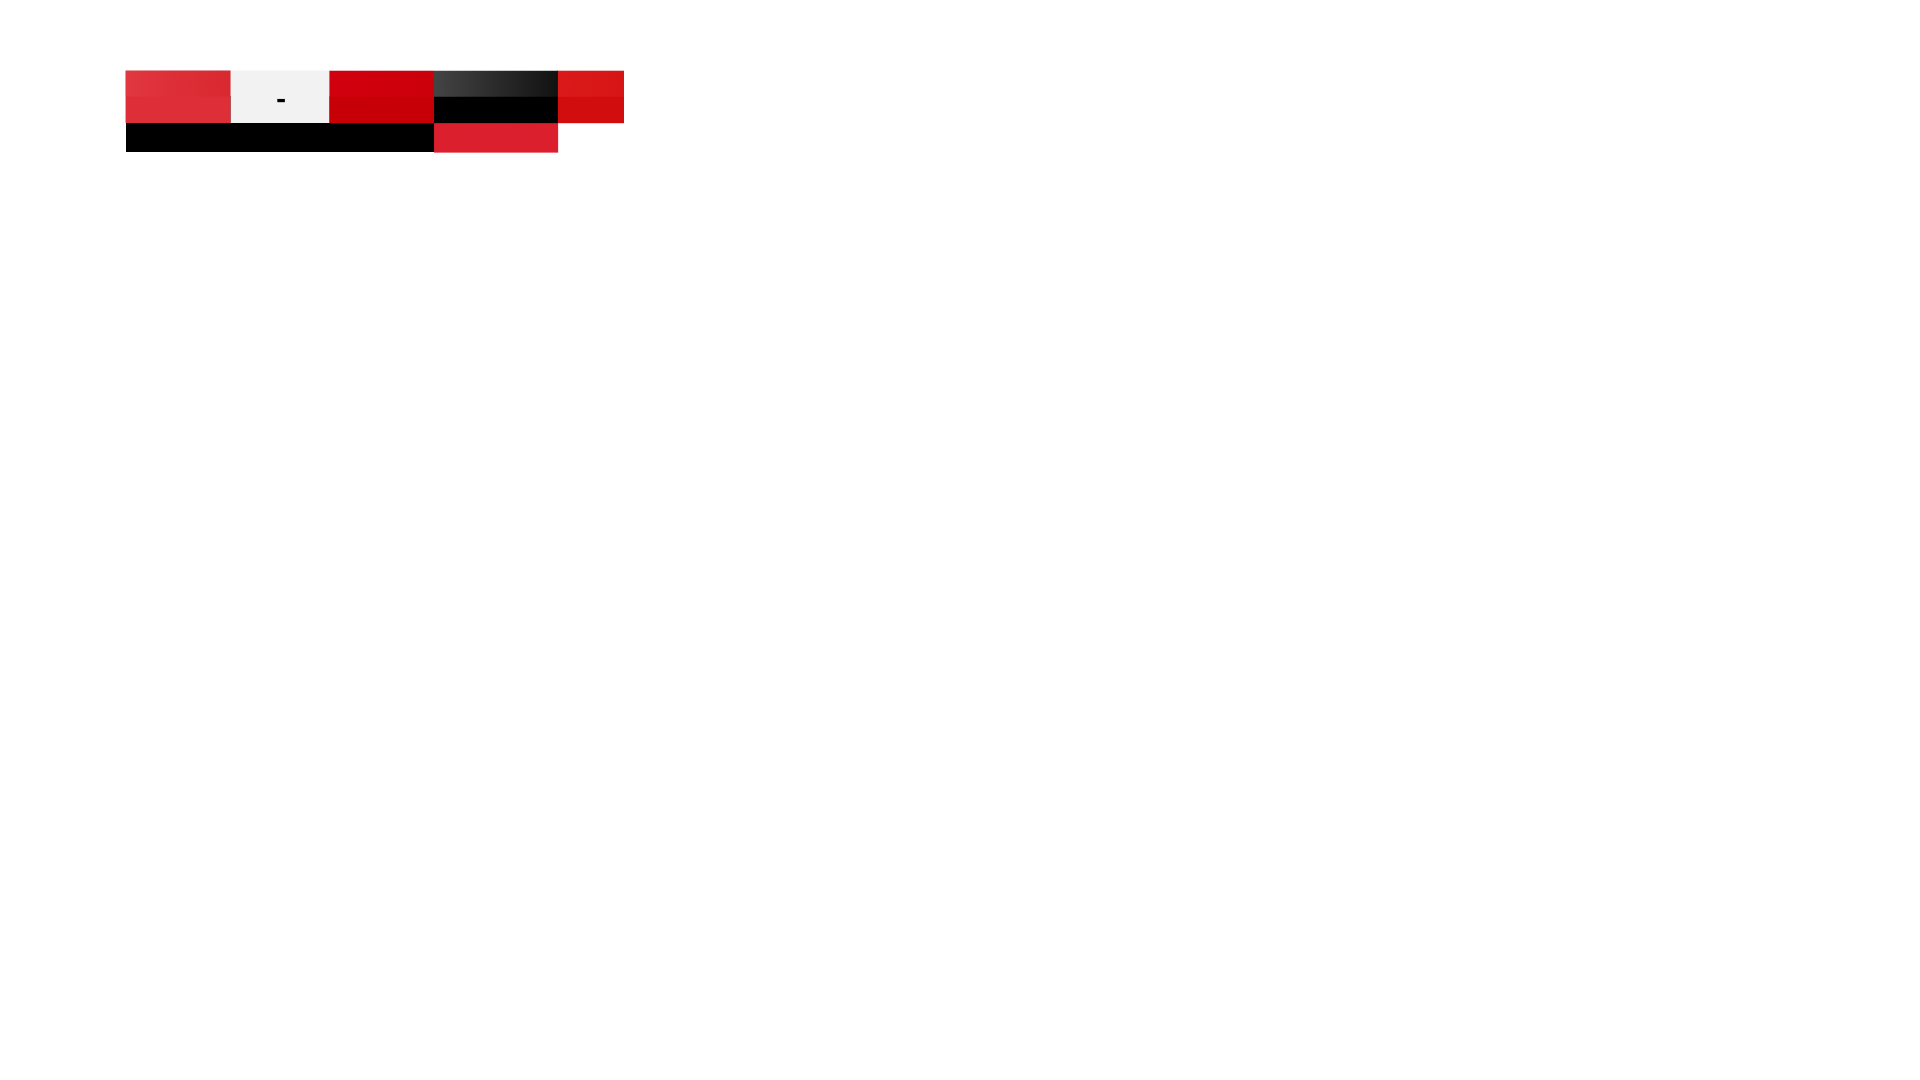
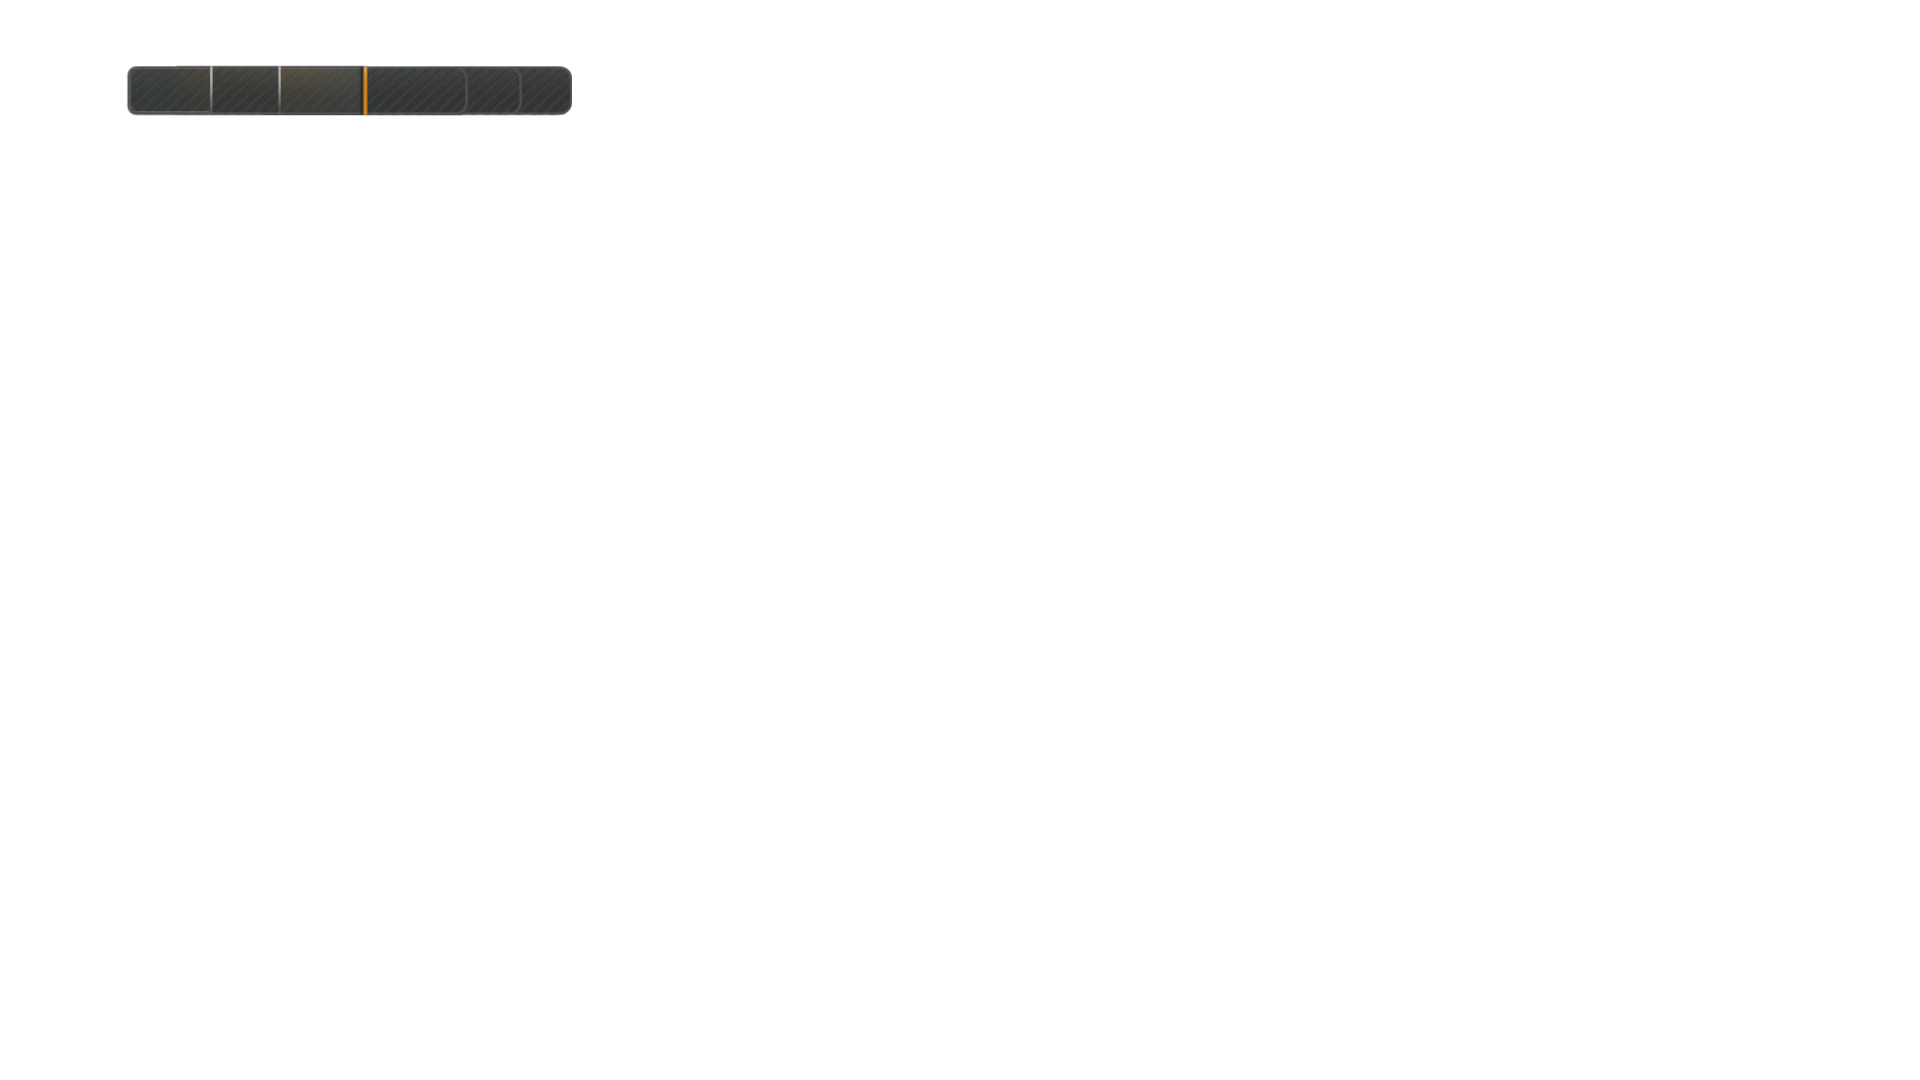
Ziggo layout

Changed region(s): [[0.0625, 0.0611, 0.3438, 0.1528]]

diff --git a/ScoreBoardXaml/MainControl.xaml b/ScoreBoardXaml/MainControl.xaml
@@ -1,25 +1,14 @@
 <UserControl  x:Class="ScoreboardV2Xaml.MainControl" xmlns="http://schemas.microsoft.com/winfx/2006/xaml/presentation" xmlns:x="http://schemas.microsoft.com/winfx/2006/xaml" xmlns:mtl="clr-namespace:vMixTitleLibrary;assembly=vMixTitleLibrary" xmlns:d="http://schemas.microsoft.com/expression/blend/2008" xmlns:mc="http://schemas.openxmlformats.org/markup-compatibility/2006" mc:Ignorable="d" Width="1920" Height="1080" Panel.ZIndex="500" InputMethod.IsInputMethodEnabled="True">
     <Grid InputMethod.IsInputMethodEnabled="True">
         <Image x:Name="BGIMG" Source="Images/Scoreboard.png" Stretch="Fill"/>
-        <mtl:TextBlockDesign FontStyle="Normal" FontWeight="Black" FontFamily="Lato" Fill="#FFFFFFFF" FontSize="30" TextAlignment="Center" Text="35:00" x:Name="TIME" Width="106.85" Height="36" Margin="443.286323806475,79.875,0,0" HorizontalAlignment="Left" VerticalAlignment="Top" Visibility="Visible" InputMethod.IsInputMethodEnabled="True" />
-        <mtl:TextBlockDesign FontStyle="Normal" FontWeight="Black" FontFamily="Lato" Fill="#FFFFFFFF" FontSize="20" TextAlignment="Center" Text="1e helft" x:Name="GAMEPART_TITLE" Width="106.28962264151" Height="24" Margin="444.343384940669,124.509429931641,0,0" HorizontalAlignment="Left" VerticalAlignment="Top" Visibility="Visible" InputMethod.IsInputMethodEnabled="True" />
-        <mtl:TextBlockDesign FontStyle="Normal" FontWeight="Black" FontFamily="Lato" Fill="#FF000000" FontSize="30" TextAlignment="Right" Text="0" x:Name="HOMESCORE" Width="44.75" Height="36" Margin="230.449996948242,80.4749984741211,0,0" HorizontalAlignment="Left" VerticalAlignment="Top" Visibility="Visible" InputMethod.IsInputMethodEnabled="True" />
-        <mtl:TextBlockDesign FontStyle="Normal" FontWeight="Black" FontFamily="Lato" Fill="#FF000000" FontSize="30" TextAlignment="Left" Text="0" x:Name="GUESTSCORE" Width="44.75" Height="36" Margin="288.676422119141,80.4561309814453,0,0" HorizontalAlignment="Left" VerticalAlignment="Top" Visibility="Visible" InputMethod.IsInputMethodEnabled="True" />
-        <mtl:TextBlockDesign FontStyle="Normal" FontWeight="Black" FontFamily="Lato" Fill="#FFFFFFFF" FontSize="30" TextAlignment="Center" Text="TOP" x:Name="HOMETEAM" Width="87.95" Height="36" Margin="135.550003051758,79.875,0,0" HorizontalAlignment="Left" VerticalAlignment="Top" Visibility="Visible" InputMethod.IsInputMethodEnabled="True" />
-        <mtl:TextBlockDesign FontStyle="Normal" FontWeight="Black" FontFamily="Lato" Fill="White" FontSize="30" TextAlignment="Center" Text="AWD" x:Name="GUESTTEAM" Width="87.95" Height="36" Margin="339.399993896484,80,0,0" HorizontalAlignment="Left" VerticalAlignment="Top" Visibility="Visible" InputMethod.IsInputMethodEnabled="True" />
-        <mtl:TextBlockDesign FontStyle="Normal" FontWeight="Black" FontFamily="Lato" Fill="#FFFFFFFF" FontSize="14" TextAlignment="Center" Text="WISSELS" x:Name="SUBSTITUTES" Width="97.623" Height="16.8" Margin="231.303,129.676,0,0" HorizontalAlignment="Left" VerticalAlignment="Top" Visibility="Visible" InputMethod.IsInputMethodEnabled="True" />
-        <Image x:Name="HOME_SUBSTITUTE_IMAGE" Source="Images/s0.png" HorizontalAlignment="Left" Margin="130.126,132.301,0,0" Stretch="Fill" VerticalAlignment="Top" Width="110" Height="12" RenderTransformOrigin="0.5,0.5">
-            <Image.RenderTransform>
-                <TransformGroup>
-                    <ScaleTransform ScaleY="1" ScaleX="-1"/>
-                    <SkewTransform AngleY="0" AngleX="0"/>
-                    <RotateTransform Angle="0"/>
-                    <TranslateTransform/>
-                </TransformGroup>
-            </Image.RenderTransform>
-        </Image>
-        <Image x:Name="GUEST_SUBSTITUTE_IMAGE" Source="Images/s0.png" HorizontalAlignment="Left" Margin="319.058,132.301,0,0" Stretch="Fill" VerticalAlignment="Top" Width="110" Height="12"/>
-        <mtl:TextBlockDesign FontStyle="Normal" FontWeight="Black" FontFamily="Lato" Fill="#FFFFFFFF" FontSize="30" TextAlignment="Center" Text="25" x:Name="SHOTCLOCK" Width="66.35" Height="36" Margin="557.286,79.875,0,0" HorizontalAlignment="Left" VerticalAlignment="Top" Visibility="Visible" InputMethod.IsInputMethodEnabled="True" />
+        <mtl:TextBlockDesign FontStyle="Normal" FontWeight="Black" FontFamily="FS Truman" Fill="#FFF28E00" FontSize="20" TextAlignment="Center" Text="35:00" x:Name="TIME" Width="106.85" Height="26.96" Margin="363.286,76.875,0,0" HorizontalAlignment="Left" VerticalAlignment="Top" Visibility="Visible" InputMethod.IsInputMethodEnabled="True" />
+        <mtl:TextBlockDesign FontStyle="Normal" FontWeight="Black" FontFamily="FS Truman" Fill="#FFF28E00" FontSize="20" TextAlignment="Center" Text="1E" x:Name="GAMEPART_TITLE" Width="42.29" Height="26.96" Margin="473.343,76.875,0,0" HorizontalAlignment="Left" VerticalAlignment="Top" Visibility="Visible" InputMethod.IsInputMethodEnabled="True" />
+        <mtl:TextBlockDesign FontStyle="Normal" FontWeight="Black" FontFamily="FS Truman" Fill="#FFD9D9D9" FontSize="20" TextAlignment="Right" Text="88" x:Name="HOMESCORE" Width="44.75" Height="26.96" Margin="195.45,76.875,0,0" HorizontalAlignment="Left" VerticalAlignment="Top" Visibility="Visible" InputMethod.IsInputMethodEnabled="True" />
+        <mtl:TextBlockDesign FontStyle="Normal" FontWeight="Black" FontFamily="FS Truman" Fill="#FFD9D9D9" FontSize="20" TextAlignment="Left" Text="88" x:Name="GUESTSCORE" Width="44.75" Height="26.96" Margin="249.676,76.875,0,0" HorizontalAlignment="Left" VerticalAlignment="Top" Visibility="Visible" InputMethod.IsInputMethodEnabled="True" />
+        <mtl:TextBlockDesign FontStyle="Normal" FontWeight="Black" FontFamily="FS Truman" Fill="#FFD9D9D9" FontSize="20" TextAlignment="Center" Text="BLW" x:Name="HOMETEAM" Width="87.95" Height="26.96" Margin="125.05,76.875,0,0" HorizontalAlignment="Left" VerticalAlignment="Top" Visibility="Visible" InputMethod.IsInputMethodEnabled="True" />
+        <mtl:TextBlockDesign FontStyle="Normal" FontWeight="Black" FontFamily="FS Truman" Fill="#FFD9D9D9" FontSize="20" TextAlignment="Center" Text="TOP" x:Name="GUESTTEAM" Width="87.95" Height="26.96" Margin="277.9,76.875,0,0" HorizontalAlignment="Left" VerticalAlignment="Top" Visibility="Visible" InputMethod.IsInputMethodEnabled="True" />
+        <mtl:TextBlockDesign FontStyle="Normal" FontWeight="Black" FontFamily="FS Truman" FontSize="20" TextAlignment="Center" Text="25" x:Name="SHOTCLOCK" Width="66.35" Height="26.96" Margin="511.786,76.875,0,0" HorizontalAlignment="Left" VerticalAlignment="Top" Visibility="Visible" InputMethod.IsInputMethodEnabled="True" Fill="#FFE6E620" />
+        <mtl:TextBlockDesign FontStyle="Normal" FontWeight="Black" FontFamily="FS Truman" Fill="#FFD9D9D9" FontSize="20" TextAlignment="Center" Text="-" x:Name="HYPHEN" Width="9.75" Height="26.96" Margin="239.95,75.975,0,0" HorizontalAlignment="Left" VerticalAlignment="Top" Visibility="Visible" InputMethod.IsInputMethodEnabled="True" />
     </Grid>
 </UserControl>
     

diff --git a/ScoreBoardXaml/MainControl.xaml.cs b/ScoreBoardXaml/MainControl.xaml.cs
@@ -17,6 +17,7 @@ namespace ScoreboardV2Xaml
         private string theTimeclockUrl;
         private string theShotclockUrl;
         private long theAttentionTime = 5;
+        Brush theShotclockStdColor;
 
         private ScoreboardRetriever theScoreboardRetriever;
         private TimeclockRetriever theTimeclockRetriever;
@@ -35,8 +36,9 @@ namespace ScoreboardV2Xaml
 
             string configFileName = baseFolder + "\\Scoreboard.config";
             string backgroundImageFile = "";
-            string zeroSubstitutionImageFile = "";
+          //  string zeroSubstitutionImageFile = "";
             string substitutionInfo = "yes";
+   
 
             try
             {
@@ -48,7 +50,7 @@ namespace ScoreboardV2Xaml
                 time = Int64.Parse(myConfig["refreshTime"]);
                 theAttentionTime = Int64.Parse(myConfig["attentionTime"]);
                 backgroundImageFile = myConfig["backgroundImageFile"];
-                zeroSubstitutionImageFile = myConfig["zeroSubstitutionImageFile"];
+              //  zeroSubstitutionImageFile = myConfig["zeroSubstitutionImageFile"];
                 substitutionInfo = myConfig["substitutionInfo"];
             }
             catch(Exception e)
@@ -76,26 +78,12 @@ namespace ScoreboardV2Xaml
                 backgroundImageFile = baseFolder + @"/Images/scoreboard.png";
             }
 
-            if (zeroSubstitutionImageFile == "")
-            {
-                zeroSubstitutionImageFile = baseFolder + @"/Images/s0.png";
-            }
 
             // Initialise source
-            if (substitutionInfo.ToLower() == "no")
-            {
-                HOME_SUBSTITUTE_IMAGE.Visibility = Visibility.Hidden;
-                GUEST_SUBSTITUTE_IMAGE.Visibility = Visibility.Hidden;
-                SUBSTITUTES.Visibility = Visibility.Hidden;
-            }
-            else
-            {
-                InitImageSource(HOME_SUBSTITUTE_IMAGE, zeroSubstitutionImageFile);
-                InitImageSource(GUEST_SUBSTITUTE_IMAGE, zeroSubstitutionImageFile);
-            }
             InitImageSource(BGIMG, backgroundImageFile );
             
             BitmapImage mySource = new BitmapImage();
+            theShotclockStdColor = SHOTCLOCK.Fill;
        
         }
 
@@ -146,15 +134,15 @@ namespace ScoreboardV2Xaml
                 SHOTCLOCK.Text = String.Format("{0:00}", aResponse.Time);
                 if (aResponse.Time <= theAttentionTime)
                 {
-                    SHOTCLOCK.Fill = new SolidColorBrush(Colors.Yellow);
+                    SHOTCLOCK.Fill = (SolidColorBrush)(new BrushConverter().ConvertFrom("#FFE6E620"));
                 }
                 else
                 {
-                    SHOTCLOCK.Fill = new SolidColorBrush(Colors.White);
+                    SHOTCLOCK.Fill = theShotclockStdColor;
                 }
             }
             else
-            {
+            { 
                 SHOTCLOCK.Text = "-";
             }
         }
